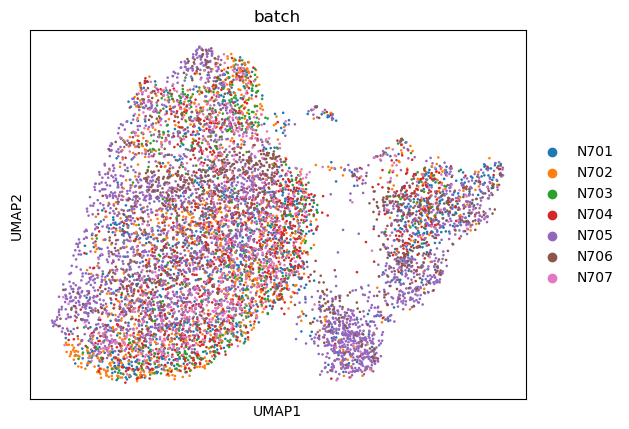
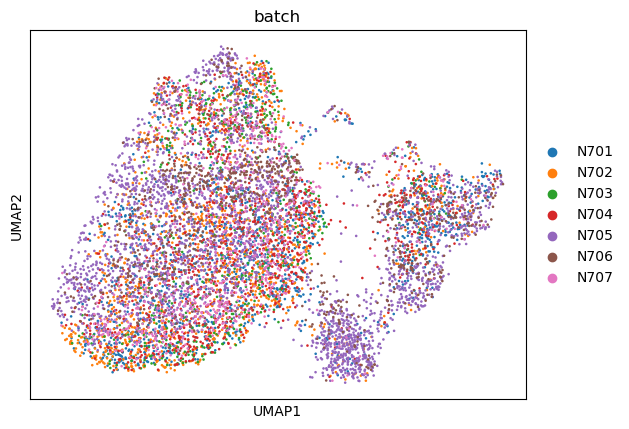
update images

Changed region(s): [[0.0604, 0.0909, 0.8156, 0.9091]]

diff --git a/topics/single-cell/tutorials/scrna-case_basic-pipeline/tutorial.md b/topics/single-cell/tutorials/scrna-case_basic-pipeline/tutorial.md
@@ -424,7 +424,7 @@ Now that we've assessed the differences in our samples, we will look at the libr
 
 ## Apply the thresholds
 
-It's now time to apply these thresholds to our data! First, a reminder of how many cells and genes are in your object: `31178 cells` and `35734 genes`. Let's see how that changes each time!
+It's now time to apply these thresholds to our data! First, a reminder of how many cells and genes are in your object: `31670 cells` and `35734 genes`. Let's see how that changes each time!
 
 > <details-title>Working in a group? Decision-time!</details-title>
 > If you are working in a group, you can now divide up a decision here with one *control* and the rest varied numbers so that you can compare results throughout the tutorials.
@@ -482,7 +482,7 @@ It's now time to apply these thresholds to our data! First, a reminder of how ma
 > > ![Violin_Log_Genotype](../../images/scrna-casestudy/CS3-Violin_log_genotype.png "Raw")
 > > ![Violinplot-filteronce](../../images/scrna-casestudy/CS3-Violin_log_genotype-Genes.png "1st filter - genes/cell")
 > > 1. The only part that seems to change is the `log1p_n_genes_by_counts`.  You can see a flatter bottom to the violin plot - this is the lower threshold set. Ideally, this would create a beautiful violin plot because there would be a clear population of low-gene number cells. Sadly not the case here, but still a reasonable filter.
-> > 2. If you *peek* at the AnnData object in your {% icon galaxy-history %}, you will find that you now have `17,040 cells x 35,734 genes`.
+> > 2. If you *peek* at the AnnData object in your {% icon galaxy-history %}, you will find that you now have `17,104 cells x 35,734 genes`.
 > >
 > {: .solution}
 >
@@ -535,7 +535,7 @@ It's now time to apply these thresholds to our data! First, a reminder of how ma
 > > ![Violinplot-filteronce](../../images/scrna-casestudy/CS3-Violin_log_genotype-Genes.png "1st filter - genes/cell")
 > > ![Violinplot-filtertwice](../../images/scrna-casestudy/CS3-Violin_log_genotype-UMIs.png "2nd filter - UMIs/cell")
 > > 1. We will focus on the `log1p_total_counts` as that shows the biggest change. Similar to above, the bottom of the violin shape has flattered due to the threshold.
-> > 2. You now have `8,678 cells x 35,734 genes` in the AnnData object.
+> > 2. You now have `8,677 cells x 35,734 genes` in the AnnData object.
 > >
 > {: .solution}
 >
@@ -578,7 +578,7 @@ It's now time to apply these thresholds to our data! First, a reminder of how ma
 > > ![Violinplot-filtertwice](../../images/scrna-casestudy/CS3-Violin_log_genotype-UMIs.png "2nd filter - UMIs/cell")
 > > ![Violinplot-filterthrice](../../images/scrna-casestudy/CS3-Violin_log_genotype-Mito.png "3rd filter - % count Mito/cell")
 > > 1. If we carefully check the axes, we can see that the `pct_counts_mito` has shrunk.
-> > 2. Your object now has `8,605 cells x 35,734 genes`.
+> > 2. Your object now has `8,604 cells x 35,734 genes`.
 > >
 > {: .solution}
 >
@@ -624,17 +624,17 @@ We can summarise the results of our filtering:
 
 |       | Cells | Genes |
 |------ |--------------------|
-| Raw | 31178    | 35734    |
-| Filter genes/cell | 17040    | 35734    |
-| Filter UMIs/cell | 8678    | 35734    |
-| Filter mito/cell | 8605   | 35734    |
-| Filter cells/gene | 8605    | 15941    |
+| Raw | 31670    | 35734    |
+| Filter genes/cell | 17104    | 35734    |
+| Filter UMIs/cell | 8677    | 35734    |
+| Filter mito/cell | 8604   | 35734    |
+| Filter cells/gene | 8604    | 15950    |
 
 {% icon congratulations %} Congratulations! You have filtered your object! Now it should be a lot faster to analyse and easier to interpret.
 
 # Processing
 
-So currently, you have a matrix that is 8605 cells by 15941 genes. This is still quite big data. We have two issues here - firstly, you already know there are differences in how many transcripts and genes have been counted per cell. This technical variable can obscure biological differences. Secondly, we like to plot things on x/y plots, so for instance *Gapdh* could be on one axis, and *Actin* can be on another, and you plot cells on that 2-dimensional axis based on how many of each transcript they possess. While that would be fine, adding in a 3rd dimension (or, indeed, in this case, 15941 more dimensions), is a bit trickier! So our next steps are to transform our big data object into something that is easy to analyse and easy to visualise.
+So currently, you have a matrix that is 8604 cells by 15950 genes. This is still quite big data. We have two issues here - firstly, you already know there are differences in how many transcripts and genes have been counted per cell. This technical variable can obscure biological differences. Secondly, we like to plot things on x/y plots, so for instance *Gapdh* could be on one axis, and *Actin* can be on another, and you plot cells on that 2-dimensional axis based on how many of each transcript they possess. While that would be fine, adding in a 3rd dimension (or, indeed, in this case, 15950 more dimensions), is a bit trickier! So our next steps are to transform our big data object into something that is easy to analyse and easy to visualise.
 
 > <hands-on-title>Normalisation</hands-on-title>
 >
@@ -686,7 +686,7 @@ We next need to look at reducing our gene dimensions. We have loads of genes, bu
 > {: .hands_on}
 >
 >
-> If you peek at the output, you will see that the number of *genes* in your AnnData object has drastically reduced to around `3213` - this dataset has *only* the highly variable genes! Some people prefer to only perform analysis on this dataset, however I have found that sometimes (for various reasons) important biological marker genes get excluded. For this reason, I personally will flag highly variable genes for use in the next analytical steps, however I keep all the genes in my AnnData object so that I can check for key ones in the future.
+> If you peek at the output, you will see that the number of *genes* in your AnnData object has drastically reduced to around `3216` - this dataset has *only* the highly variable genes! Some people prefer to only perform analysis on this dataset, however I have found that sometimes (for various reasons) important biological marker genes get excluded. For this reason, I personally will flag highly variable genes for use in the next analytical steps, however I keep all the genes in my AnnData object so that I can check for key ones in the future.
 >
 > - {% icon warning %} For this tutorial, you **must** keep all genes in your AnnData object. Therefore, delete the output that contains *only* the highly variable genes from your {% icon galaxy-history %} history now.
 >
@@ -721,10 +721,10 @@ Next up, we're going to scale our data so that all genes have the same variance 
 We still have too many dimensions. Transcript changes are not usually singular - which is to say, genes were in pathways and in groups. It would be easier to analyse our data if we could more easily group these changes.
 
 ## Principal components
-Principal components are calculated from highly dimensional data to find the most spread in the dataset. Given that our object has around `3213` highly variable genes, that's 3213 dimensions. There will, however, be one line/axis/dimension that yields the most spread and variation across the cells. That will be our first principal component. We can calculate the first `x` principal components in our data to drastically reduce the number of dimensions.
+Principal components are calculated from highly dimensional data to find the most spread in the dataset. Given that our object has around `3216` highly variable genes, that's 3216 dimensions. There will, however, be one line/axis/dimension that yields the most spread and variation across the cells. That will be our first principal component. We can calculate the first `x` principal components in our data to drastically reduce the number of dimensions.
 
 > <warning-title>Check the size of your AnnData object!</warning-title>
-> Your AnnData object should have far more than 3213 genes in it (if you followed our settings and tool versions, you'll have a matrix around 8605 × 15941 (cells x genes). If you followed the *More details on the Highly Variable Genes above, you may have created an object with *only* the highly variable genes. Please delete this object and do not use it! Carry forward the object with around 8605 × 15941 (cells x genes)!
+> Your AnnData object should have far more than 3216 genes in it (if you followed our settings and tool versions, you'll have a matrix around 8604 × 15950 (cells x genes). If you followed the *More details on the Highly Variable Genes above, you may have created an object with *only* the highly variable genes. Please delete this object and do not use it! Carry forward the object with around 8604 × 15950 (cells x genes)!
 {: .warning}
 
 > <hands-on-title>Calculate Principal Components</hands-on-title>
@@ -962,10 +962,10 @@ Note that the cluster numbering is based on size alone - clusters 0 and 1 are no
 
 | Clusters | Marker | Cell type |
 |------ |--------------------|
-| 2 | Il2ra    | Double negative (early T-cell)    |
-| 0,1,5 | Cd8b1, Cd8a, Cd4    | Double positive (middle T-cell)|
-| 4 | Cd8b1, Cd8a, Cd4 - high | Double positive (late middle T-cell)
-| 3 | Itm2a    | Mature T-cell
+| 3 | Il2ra    | Double negative (early T-cell)    |
+| 0,1,4 | Cd8b1, Cd8a, Cd4    | Double positive (middle T-cell)|
+| 5 | Cd8b1, Cd8a, Cd4 - high | Double positive (late middle T-cell)
+| 2 | Itm2a    | Mature T-cell
 | 6 | Aif1    | Macrophages    |
 
 ![UMAP Plot](../../images/scrna-casestudy/CS3-UMAP_Plot.png "UMAP Plots")
@@ -987,10 +987,10 @@ Note that the cluster numbering is based on size alone - clusters 0 and 1 are no
 > > 2. The cluster annotation would be different:
 > > | Clusters | Marker | Cell type |
 > > |----------|------------------------------|----------------------------------|
-> > | 3 | Il2ra    | Double negative (early T-cell)    |
-> > | 0,1,4 | Cd8b1, Cd8a, Cd4    | Double positive (middle T-cell)|
-> > | 5 | Cd8b1, Cd8a, Cd4 - high | Double positive (late middle T-cell)
-> > | 2 | Itm2a    | Mature T-cell
+> > | 2 | Il2ra    | Double negative (early T-cell)    |
+> > | 0,1,5 | Cd8b1, Cd8a, Cd4    | Double positive (middle T-cell)|
+> > | 4 | Cd8b1, Cd8a, Cd4 - high | Double positive (late middle T-cell)
+> > | 3 | Itm2a    | Mature T-cell
 > > | 6 | Aif1    | Macrophages    |
 > >
 > {: .solution}
@@ -1014,16 +1014,16 @@ To annotate the clusters, we write a list of new cluster names in order from Clu
 > | Clusters | Marker | Cell type |
 > |----------|------------------------------|----------------------------------|
 > | 3 | Il2ra    | Double negative (early T-cell)    |
-> | 0,1,4 | Cd8b1, Cd8a, Cd4    | Double positive (middle T-cell)|
-> | 5 | Cd8b1, Cd8a, Cd4 - high | Double positive (late middle T-cell)
-> | 2 | Itm2a    | Mature T-cell
+> | 0,1,5 | Cd8b1, Cd8a, Cd4    | Double positive (middle T-cell)|
+> | 4 | Cd8b1, Cd8a, Cd4 - high | Double positive (late middle T-cell)
+> | 3 | Itm2a    | Mature T-cell
 > | 6 | Aif1    | Macrophages    |
 >
 > 1. What would your cluster names list look like?
 >
 > > <solution-title></solution-title>
 > >
-> > 1. Given this new order, your list would be: `DP-M3,DP-M2,T-mat,DN,DP-M1,DP-L,Macrophages`
+> > 1. Given this new order, your list would be: `DP-M3,DP-M1,DN,T-mat,DP-L,DP-M2,Macrophages`
 > >
 > {: .solution}
 {: .question}
@@ -1036,7 +1036,7 @@ Adjust your list according to the expression of the gene markers.
 >    - {% icon param-file %} *"Annotated data matrix"*: `DEG_Object`
 >    - *"Function to manipulate the object"*: `Rename categories of annotation`
 >        - *"Key for observations or variables annotation"*: `louvain`
->        - *"Comma-separated list of new categories"*: `DP-M3,DP-M1,DN,T-mat,DP-L,DP-M2,Macrophages`
+>        - *"Comma-separated list of new categories"*: `DP-M3,DP-M1,T-mat,DN,DP-M2,DP-L,Macrophages`
 >        - *"Add categories to a new key?"*: `Yes`
 >            - *"Key name"*: `cell_type`
 >
